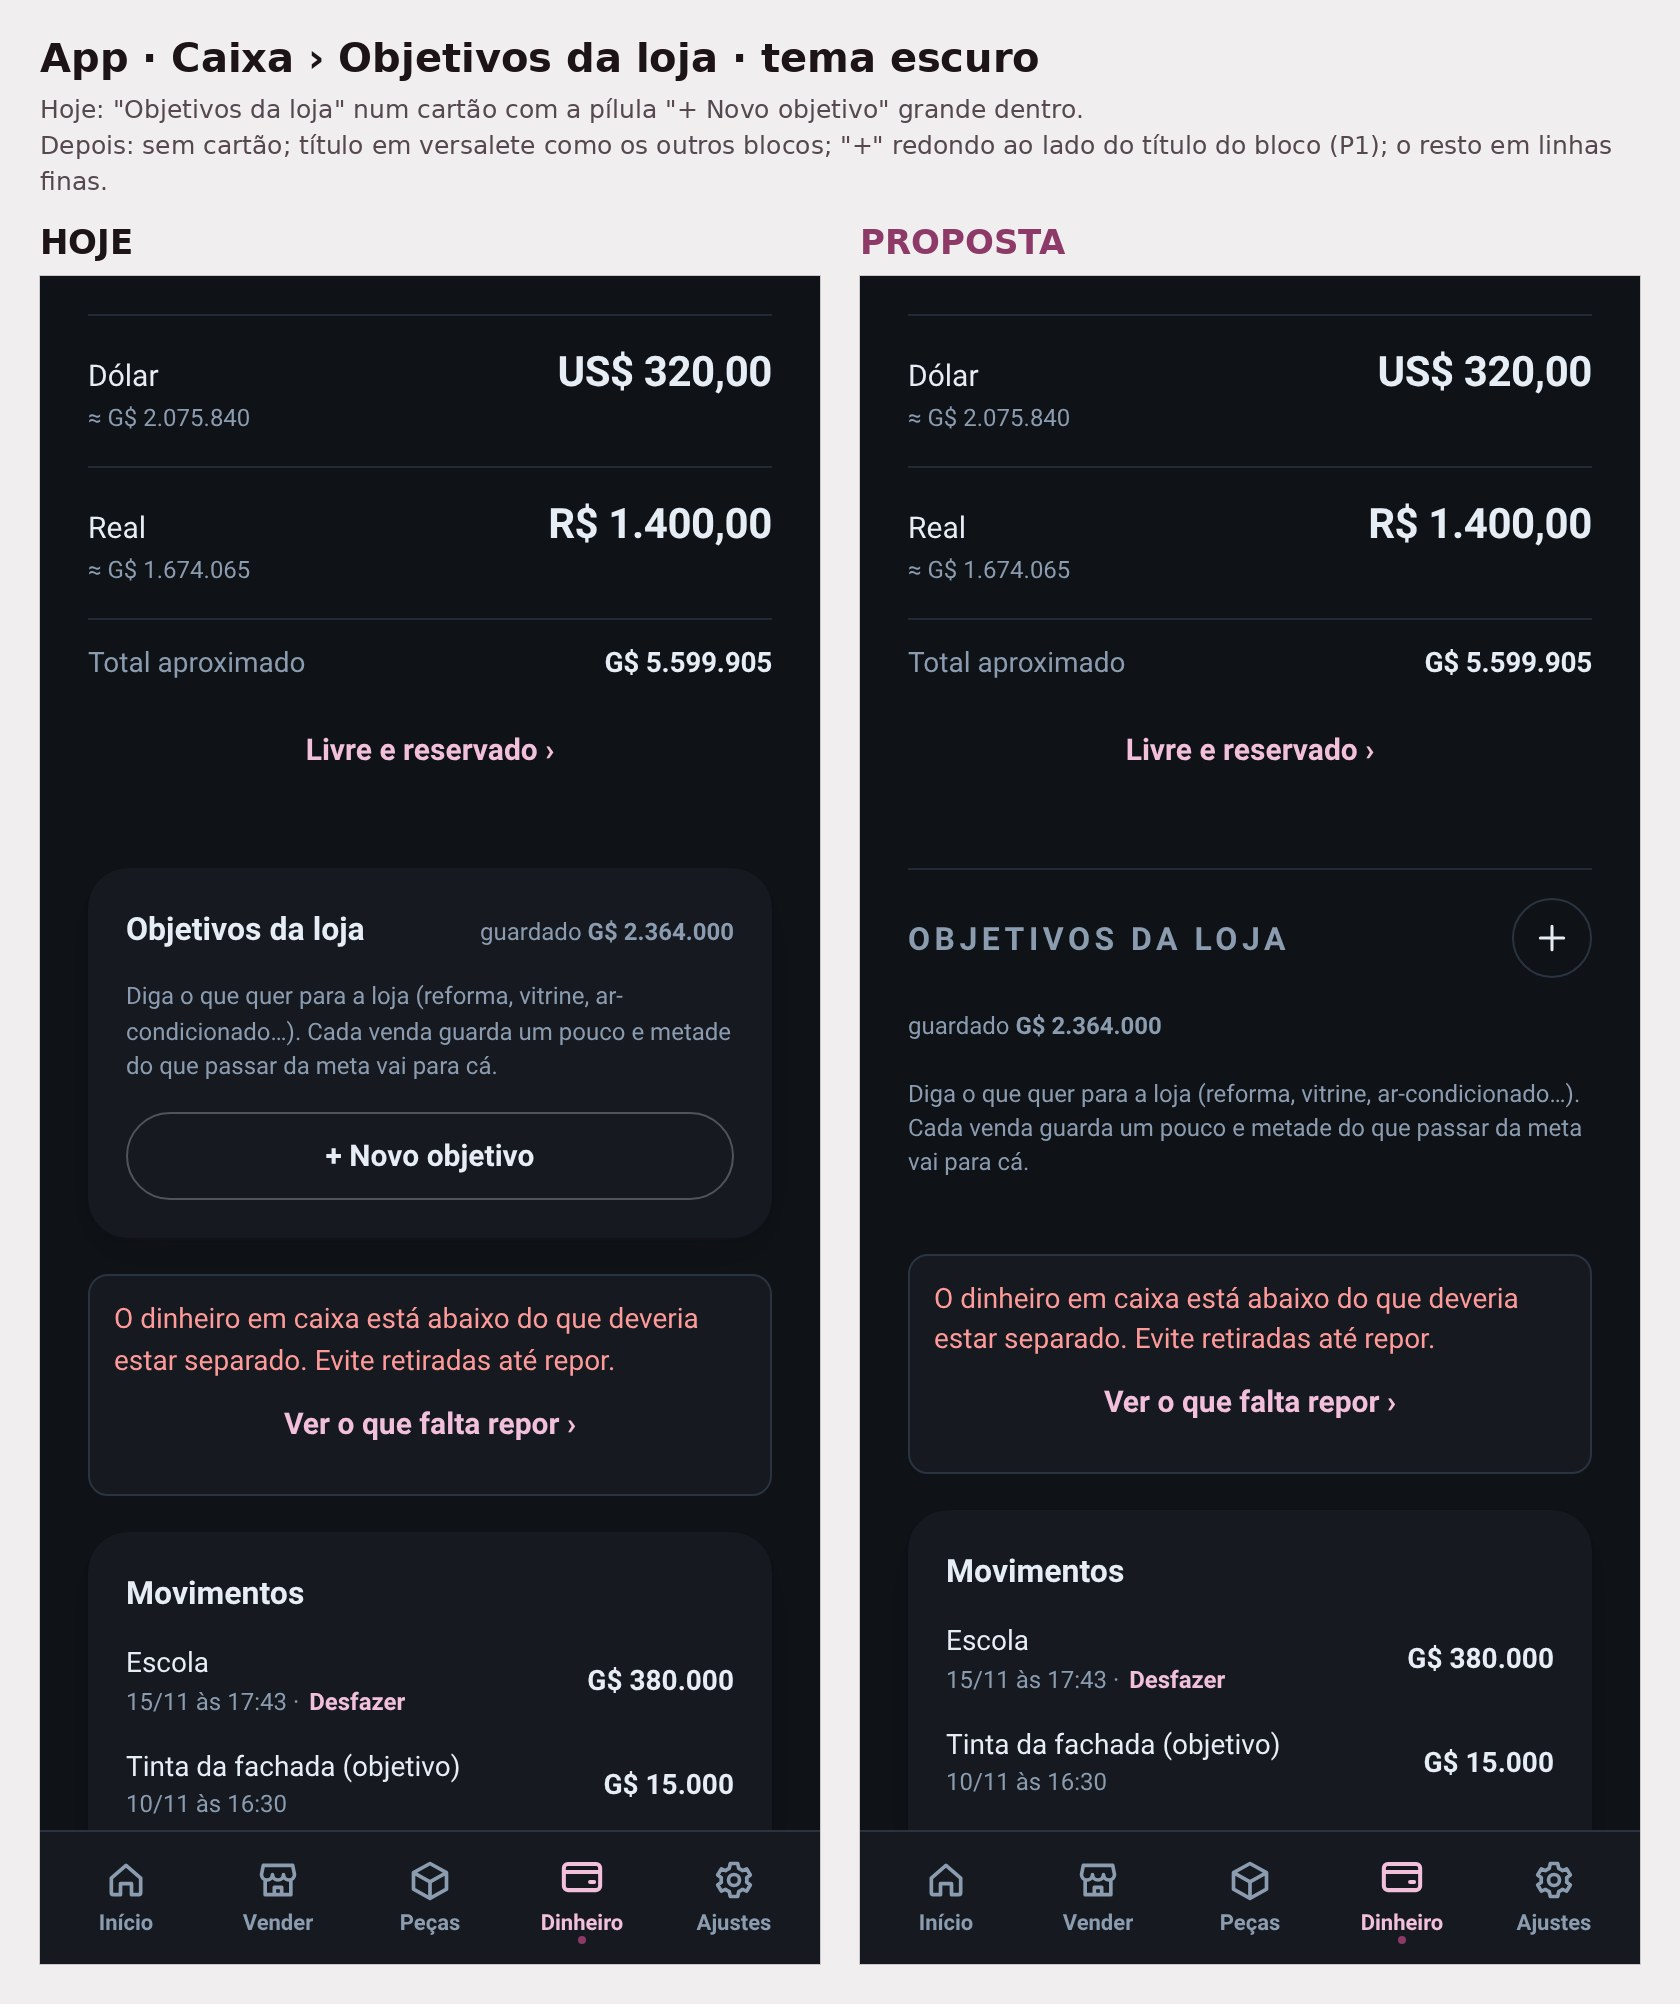
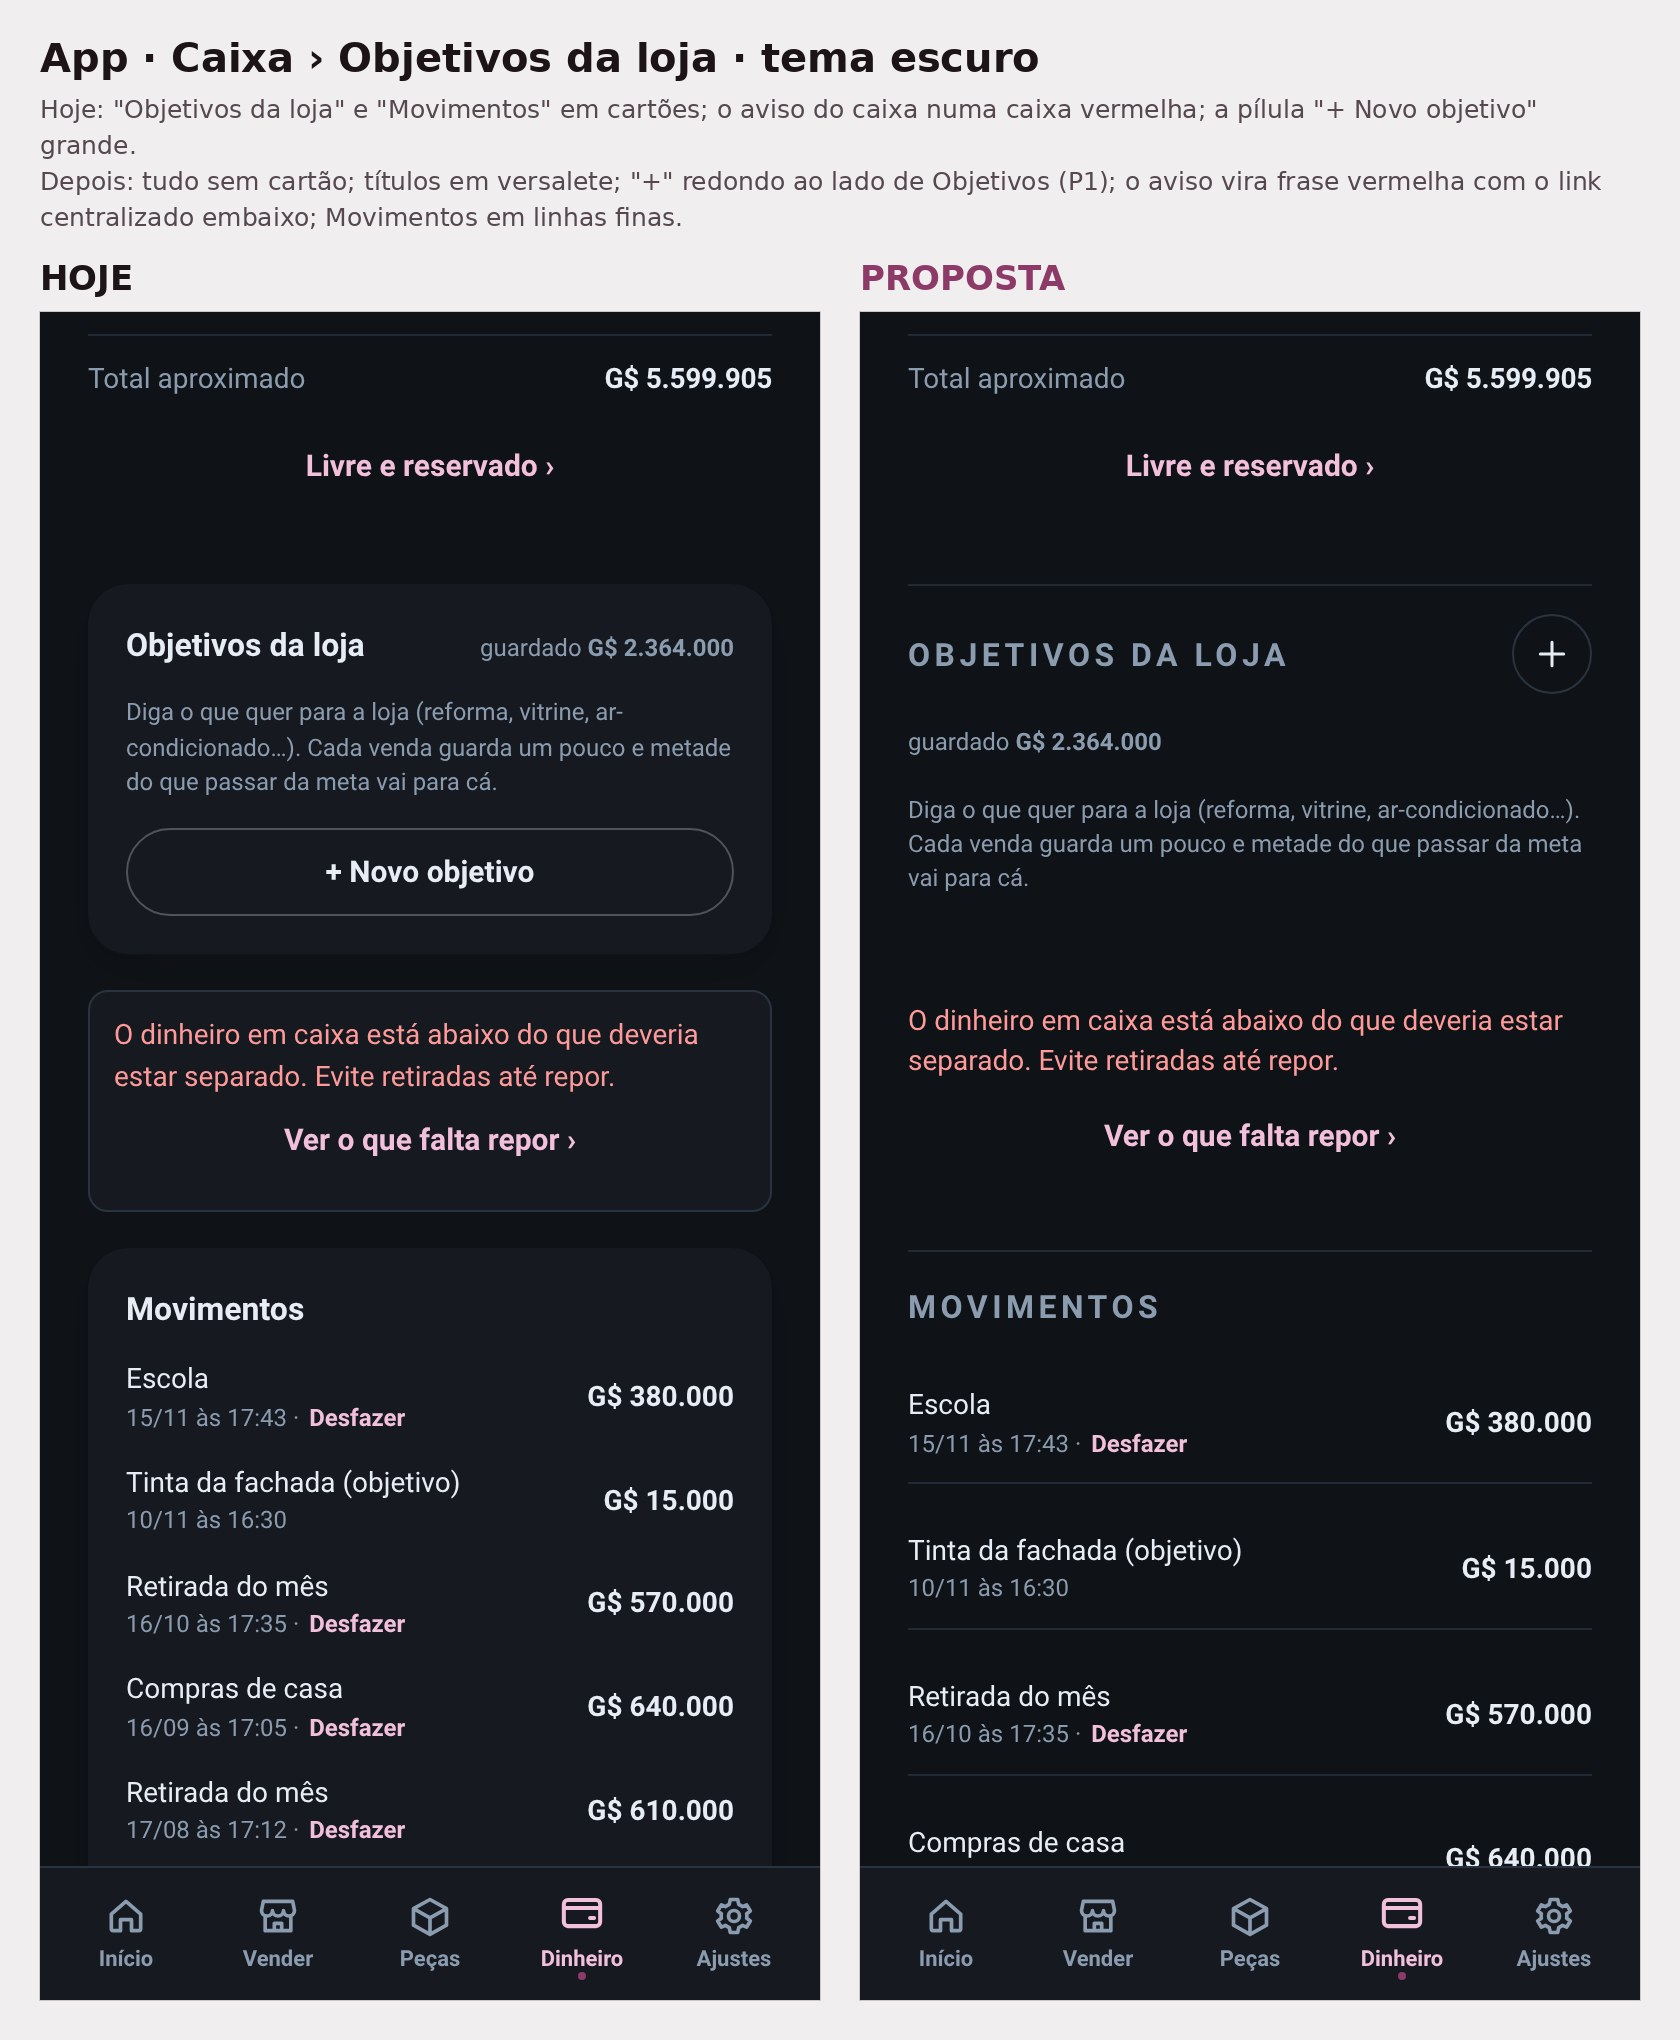
S425: 135b refeito (aviso e Movimentos sem caixa)
Claude-Session: https://claude.ai/code/session_01Vj5GPRt4UBskC3w8v52h7G

diff --git a/work/s425/esb135.py b/work/s425/esb135.py
@@ -19,11 +19,11 @@ CASOS=[
   [plus('button.nv73','Nova despesa'),CAB],
   'Hoje: "+ Nova" em pílula e mais baixa que o título; "Aluguel da loja" num cartão.',
   'Depois: "+" redondo (igual a Inventário e Clientes) no centro da linha do título (P1 + regra 2); as contas da loja em linhas finas, sem cartão.'),
- ('b','caixa-objetivos','Caixa › Objetivos da loja',D['caixa-movimentos']+["()=>scrollTo(0,260)"],
-  '.view section.obCard{'+SEMCX+';border-top:1px solid var(--line2)!important;padding-top:14px!important}.obCard .paMt h2{font-size:11px!important;letter-spacing:.14em!important;text-transform:uppercase;color:var(--mute)!important;font-weight:600!important;font-family:inherit!important;white-space:nowrap;margin-right:auto!important}.obCard>.hint{margin:2px 0 0!important}',
-  ["""()=>{const c=document.querySelector('.obCard');if(!c)return;const b=[...c.querySelectorAll('button')].find(x=>/Novo objetivo/.test(x.textContent));const h=c.querySelector('.paMt');if(b&&h){b.className='pl78';b.style.cssText='margin:0 0 0 12px;width:40px;height:40px';b.setAttribute('aria-label','Novo objetivo');b.innerHTML='%s';h.style.cssText+=';display:flex;align-items:center;gap:8px';const g=h.querySelector('.hint');if(g)h.after(g);h.appendChild(b)}}"""%MAIS,CAB],
-  'Hoje: "Objetivos da loja" num cartão com a pílula "+ Novo objetivo" grande dentro.',
-  'Depois: sem cartão; título em versalete como os outros blocos; "+" redondo ao lado do título do bloco (P1); o resto em linhas finas.'),
+ ('b','caixa-objetivos','Caixa › Objetivos da loja',D['caixa-movimentos']+["()=>scrollTo(0,420)"],
+  '.view section.obCard{'+SEMCX+';border-top:1px solid var(--line2)!important;padding-top:14px!important}.obCard .paMt h2{font-size:11px!important;letter-spacing:.14em!important;text-transform:uppercase;color:var(--mute)!important;font-weight:600!important;font-family:inherit!important;white-space:nowrap;margin-right:auto!important}.obCard>.hint{margin:2px 0 0!important}html body section.card:has(.note.n-bad),html body .phgrid:has(.note.n-bad),html body .phgrid .col:has(.note.n-bad){'+SEMCX+'}html body div.note.n-bad{background:none!important;border:0!important;border-radius:0!important;box-shadow:none!important;padding:16px 0 0!important;color:var(--bad)!important;text-align:left}html body div.note.n-bad .esLn{display:block!important;margin:6px auto 0!important;text-align:center}.view section.card.col:has(>h2):not(.obCard){'+SEMCX+';border-top:1px solid var(--line2)!important;padding-top:16px!important;margin-top:16px!important}.view section.card.col:has(>h2):not(.obCard)>h2{font-size:11px!important;letter-spacing:.14em!important;text-transform:uppercase;color:var(--mute)!important;font-weight:600!important;font-family:inherit!important;margin-bottom:4px!important}.view section.card.col:has(>h2):not(.obCard) .sl{border-bottom:1px solid var(--line2);padding:10px 0!important;margin:0!important;min-height:44px;align-items:center}',
+  ["""()=>{const c=document.querySelector('.obCard');if(!c)return;const b=[...c.querySelectorAll('button')].find(x=>/Novo objetivo/.test(x.textContent));const h=c.querySelector('.paMt');if(b&&h){b.className='pl78';b.style.cssText='margin:0 0 0 12px;width:40px;height:40px';b.setAttribute('aria-label','Novo objetivo');b.innerHTML='%s';h.style.cssText+=';display:flex;align-items:center;gap:8px';const g=h.querySelector('.hint');if(g)h.after(g);h.appendChild(b)};document.querySelectorAll('.view>.note.n-bad').forEach(n=>{[['background','none'],['border','0'],['border-radius','0'],['box-shadow','none'],['padding','16px 0 0'],['margin','0']].forEach(q=>n.style.setProperty(q[0],q[1],'important'))})}"""%MAIS,CAB],
+  'Hoje: "Objetivos da loja" e "Movimentos" em cartões; o aviso do caixa numa caixa vermelha; a pílula "+ Novo objetivo" grande.',
+  'Depois: tudo sem cartão; títulos em versalete; "+" redondo ao lado de Objetivos (P1); o aviso vira frase vermelha com o link centralizado embaixo; Movimentos em linhas finas.'),
  ('c','atacado','Atacado › Lojistas',["()=>__LF.inicioGo('ata')","()=>__LF.ACT.ataAba('loj')"],
   '#ataTabs{margin-bottom:0!important}#ataCorpo{padding-top:32px!important;margin-top:0!important}#ataCorpo .ataVz{text-align:center!important;font-weight:700;color:var(--fg)!important;padding:0!important;margin:8px 0 0!important}#ataCorpo .ataNt{text-align:center!important;margin:6px 24px 0!important;color:var(--sub)!important}',
   [plus("button[data-act=ataNovo]","Novo acesso"),CAB,"""()=>{const c=document.getElementById('ataCorpo');if(!c||c.querySelector('[data-ic]'))return;c.insertAdjacentHTML('afterbegin','<div data-ic style="display:flex;justify-content:center;color:var(--accent-fg)"><svg width="56" height="56" viewBox="0 0 24 24" fill="none" stroke="currentColor" stroke-width="1.4" stroke-linecap="round"><circle cx="12" cy="8" r="4"/><path d="M4 21c1.5-4 4.5-6 8-6s6.5 2 8 6"/></svg></div>');const v=c.querySelector('.ataVz');if(v)v.textContent='Nenhum lojista ainda'}"""],

diff --git a/work/s425/i4.py b/work/s425/i4.py
@@ -1,0 +1,9 @@
+import sys;sys.path.insert(0,'/home/claude/lafouch/work/s349');import ap
+sys.path.insert(0,'/home/claude/lafouch/tools/teste-android');from telas import C
+from playwright.sync_api import sync_playwright
+D=dict(C)
+with sync_playwright() as pw:
+  b,pg,w=ap.abre(pw,'inicio',True);w(300)
+  for p in D['caixa-movimentos']: pg.evaluate(p);w(900)
+  print(pg.evaluate("""()=>{const o=[];for(const rx of [/^O dinheiro em caixa/,/^Movimentos/]){const e=[...document.querySelectorAll('.view section,.view div')].filter(x=>x.getBoundingClientRect().height&&rx.test((x.innerText||'').trim())).pop();if(e){let c=e;const L=[];for(let i=0;i<4let c=e;while(c&&getComputedStyle(c).borderTopWidth=='0px'&&getComputedStyle(c).backgroundColor=='rgba(0, 0, 0, 0)')c=c.parentElement;o.push((c||e).tagName+'.'+(c||e).className+' :: '+(c||e).outerHTML.slice(0,400))let c=e;while(c&&getComputedStyle(c).borderTopWidth=='0px'&&getComputedStyle(c).backgroundColor=='rgba(0, 0, 0, 0)')c=c.parentElement;o.push((c||e).tagName+'.'+(c||e).className+' :: '+(c||e).outerHTML.slice(0,400))c;i++){const s=getComputedStyle(c);L.push(c.tagName+'.'+c.className+' bg='+s.backgroundColor+' bd='+s.borderTopWidth+' '+s.borderTopStyle);c=c.parentElement}o.push(L.join(' < '))}}return o}"""))
+  b.close()

diff --git a/work/s425/i6.py b/work/s425/i6.py
@@ -1,0 +1,10 @@
+import sys;sys.path.insert(0,'/home/claude/lafouch/work/s349');import ap
+exec(open('esb135.py').read().split('with sync_playwright')[0])
+from playwright.sync_api import sync_playwright
+c=[x for x in CASOS if x[0]=='b'][0]
+with sync_playwright() as pw:
+  b,pg,w=ap.abre(pw,'inicio',True);w(300)
+  for p in c[3]: pg.evaluate(p);w(900)
+  pg.add_style_tag(content=c[4]);[pg.evaluate(x) for x in c[5]];w(500)
+  print(pg.evaluate("""()=>{const n=[...document.querySelectorAll('.note.n-bad')];return n.map(e=>{const r=e.getBoundingClientRect();let out=[];for(const [x,y] of [[r.left+1,r.top+1],[r.left-1,r.top+5]]){let t=document.elementFromPoint(x,y);let L=[];while(t&&L.length<4){const s=getComputedStyle(t);L.push(t.tagName+'.'+t.className+' bg='+s.backgroundColor+' bd='+s.borderTopWidth);t=t.parentElement}out.push(L.join(' < '))}return [Math.round(r.top),Math.round(r.height),getComputedStyle(e).border,getComputedStyle(e).backgroundColor,...out]})}"""))
+  b.close()

diff --git a/work/s425/i5.py b/work/s425/i5.py
@@ -1,0 +1,11 @@
+import sys;sys.path.insert(0,'/home/claude/lafouch/work/s349');import ap
+sys.path.insert(0,'/home/claude/lafouch/tools/teste-android');from telas import C
+from playwright.sync_api import sync_playwright
+D=dict(C)
+J=r"""()=>{const e=document.querySelector('.note.n-bad');const L=[];let c=e;for(let i=0;i<4&&c;i++){const s=getComputedStyle(c);L.push(c.tagName+'.'+c.className+' bg='+s.backgroundColor+' bd='+s.borderTopWidth+' sh='+s.boxShadow+' ol='+s.outlineStyle);c=c.parentElement}const a=getComputedStyle(e,'::before'),b=getComputedStyle(e,'::after');L.push('before='+a.content+' '+a.border+' / after='+b.content+' '+b.border);return L}"""
+with sync_playwright() as pw:
+  b,pg,w=ap.abre(pw,'inicio',True);w(300)
+  for p in D['caixa-movimentos']: pg.evaluate(p);w(900)
+  pg.add_style_tag(content="html body div.note.n-bad{background:none!important;border:0!important;box-shadow:none!important}")
+  for x in pg.evaluate(J): print(x)
+  b.close()

diff --git a/docs/FALTA-APROVAR-15-11.md b/docs/FALTA-APROVAR-15-11.md
@@ -617,3 +617,4 @@ Não são esquecimento (estavam na lista, parados de propósito ou por ordem do 
 - 18/11 14:10 — VARREDURA v1 feita (docs/VARREDURA-PADROES-18-11.md; ferramenta work/verif/). Achados por padrão no arquivo. CONFLITO: 134d aprovado ("Fechar sem salvar") × P6 (sem Fechar) — perguntar. Erro de texto "Black Friday em 1 dias". Falta: tablet/PC/3 letras e celular real.
 - 18/11 ~14:15 · DONO "Implementar" (travadas) → ✔ PUBLICADO site 1795021758 (S426; www/loja atualizado): os 5 itens. Simulador: estilo idêntico (60 telas), porteiro 197/0, catálogo 1.235→957 ms de quadros longos (processador 4× lento). A Mochi com o leitor ao lado só dá para medir no celular de verdade (no simulador ela usa o leitor de teste) → falta nova gravação do dono.
 - 18/11 14:40 — ESBOÇOS RÁPIDOS 135a–135h (work/s425/esb135.py, claro e escuro), ESPERANDO: a Despesas ("+" redondo no centro do título; Aluguel em linha) · b Caixa › Objetivos (sem cartão, versalete, "+" ao lado do bloco) · c Atacado (+ redondo, 32 px, tela vazia com ícone centralizada) · d Giro (dobras sem cartão) · e Retirada (moeda na escolha de dois lados, campos em linha) · f Registrar troca (De/Para escolha de dois lados, campos em linha) · g Pendências (linhas, ação "Ver ›" rosa) · h Preços (números na letra do texto; "1 dia"). Base: 132, 133a/b, 134. Olho nada novo; alinhamento caiu em todas (ex.: Giro 8→0, Pendências 12→0). Conflito 134d × P6 fica para depois (dono).
+- 18/11 14:55 — DONO: "quase tudo aprovado, dois detalhes"; 1º: 135b fora do padrão no fim → refeito: aviso do caixa vira frase vermelha sem caixa (link centralizado embaixo) e Movimentos em linhas finas com versalete. Esperando o 2º detalhe.

diff --git a/docs/MEMORIA-PROJETO.md b/docs/MEMORIA-PROJETO.md
@@ -3100,3 +3100,4 @@ Testar TUDO, com muita calma, antes de dizer que está pronto ou de publicar: ca
 - 18/11 13:30 — DONO: "Sim, sempre dá uma olhada no que parece suspeito" → verificador: programa mede tudo; IA sempre olha os suspeitos; nesta varredura completa a IA olha 1 vez cada tela no celular claro/escuro (~140 fotos).
 - 18/11 14:10 — VARREDURA v1 feita (docs/VARREDURA-PADROES-18-11.md; ferramenta work/verif/). Achados por padrão no arquivo. CONFLITO: 134d aprovado ("Fechar sem salvar") × P6 (sem Fechar) — perguntar. Erro de texto "Black Friday em 1 dias". Falta: tablet/PC/3 letras e celular real.
 - 18/11 14:40 — ESBOÇOS RÁPIDOS 135a–135h (work/s425/esb135.py, claro e escuro), ESPERANDO: a Despesas ("+" redondo no centro do título; Aluguel em linha) · b Caixa › Objetivos (sem cartão, versalete, "+" ao lado do bloco) · c Atacado (+ redondo, 32 px, tela vazia com ícone centralizada) · d Giro (dobras sem cartão) · e Retirada (moeda na escolha de dois lados, campos em linha) · f Registrar troca (De/Para escolha de dois lados, campos em linha) · g Pendências (linhas, ação "Ver ›" rosa) · h Preços (números na letra do texto; "1 dia"). Base: 132, 133a/b, 134. Olho nada novo; alinhamento caiu em todas (ex.: Giro 8→0, Pendências 12→0). Conflito 134d × P6 fica para depois (dono).
+- 18/11 14:55 — DONO: "quase tudo aprovado, dois detalhes"; 1º: 135b fora do padrão no fim → refeito: aviso do caixa vira frase vermelha sem caixa (link centralizado embaixo) e Movimentos em linhas finas com versalete. Esperando o 2º detalhe.
